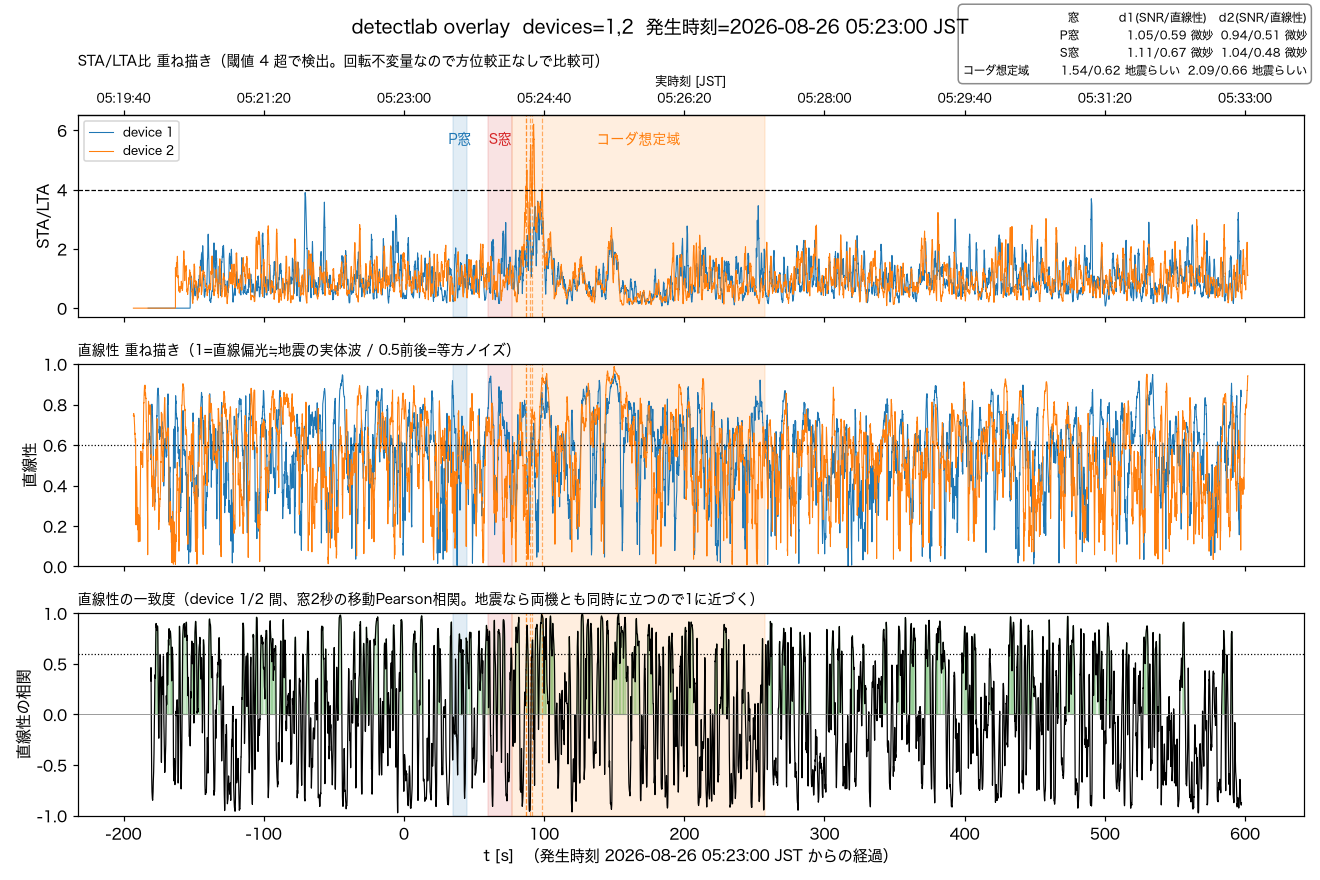
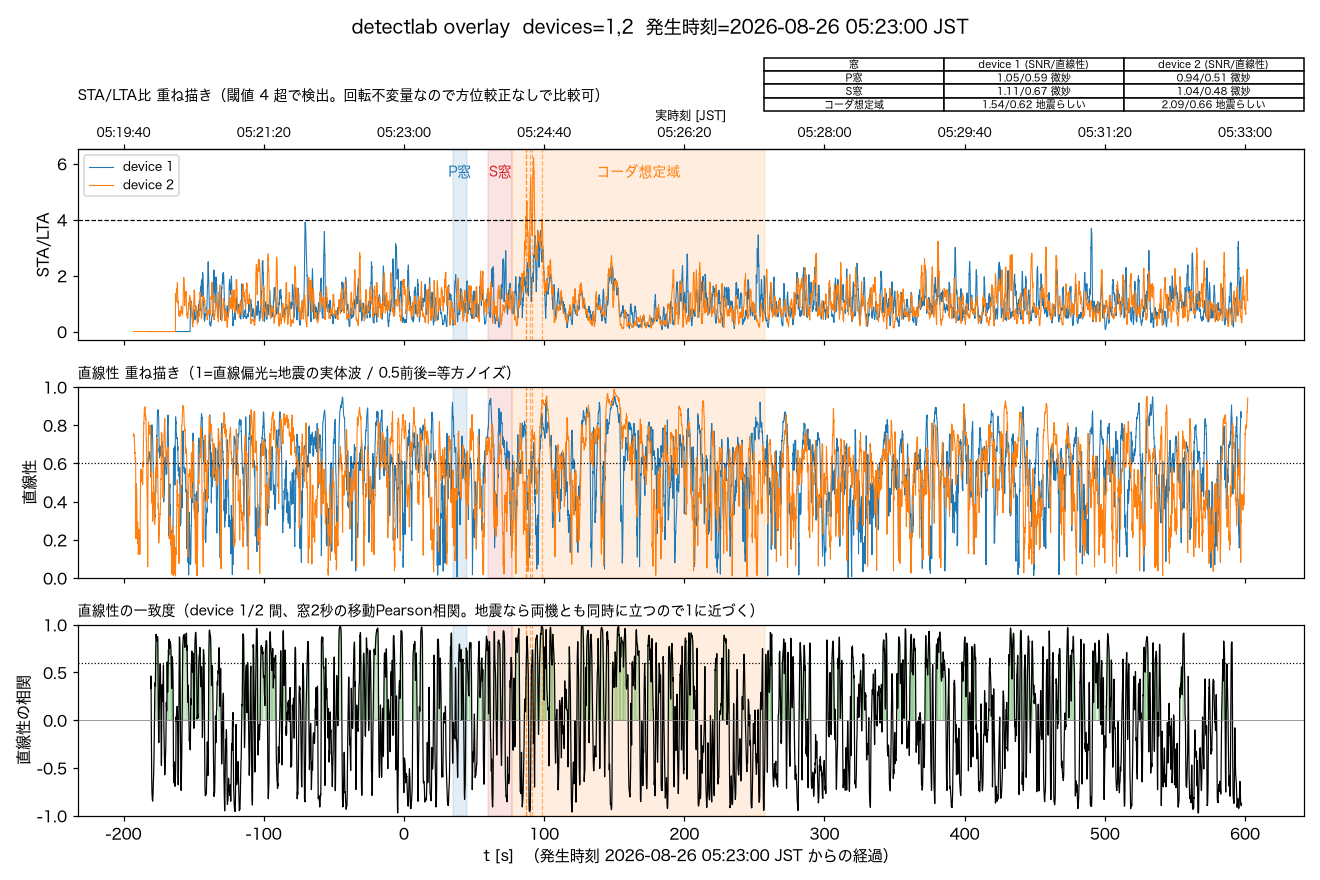
窓別レポート表の配置をレビュー指摘で2回直す
ax.table()化で列は揃ったが波形と重なる位置だった→axsの上端より上、タイトル横へ
移動→今度はsecondary_xaxis("top")の実時刻目盛と重なっていた→表をさらに上へ
(axes座標y=1.20)出して解決。セルの内側パディングも詰めてタイトル右側に収まる幅にした。

Claude-Session: https://claude.ai/code/session_01AXZKTXLxqzRLM2wsxbfUUm
Agent-Session: Claude Code on 29-er: 9aa0abc7-e992-46b4-8124-5504bc897dcd

diff --git a/tools/detectlab.py b/tools/detectlab.py
@@ -572,21 +572,30 @@ def plot_overlay(per_device, thr, arrivals, ref_us, out, show, corr_win=2.0, pre
                         color=color, ha="center", fontsize=9)
 
     if window_reports and arrivals:
+        # 和文フォントはプロポーショナルなので、文字列パディングでは列が揃わない。
+        # ax.table()の実グリッドに任せる（axes座標なのでsuptitleとも衝突しない）。
         dev_ids = [d for d, *_ in per_device]
-        header = "窓          " + "   ".join(f"d{d}(SNR/直線性)" for d in dev_ids)
-        rows = [header]
+        col_labels = ["窓"] + [f"device {d} (SNR/直線性)" for d in dev_ids]
+        cell_text = []
         for label, *_r in arrivals:
-            cells = [f"{label:12s}"]
+            row = [label]
             for d in dev_ids:
                 entry = next((w for w in window_reports.get(d) or [] if w[0] == label), None)
                 if entry and entry[1] is not None:
                     _, snr, wrect, verdict = entry
-                    cells.append(f"{snr:4.2f}/{wrect:4.2f} {verdict}")
+                    row.append(f"{snr:.2f}/{wrect:.2f} {verdict}")
                 else:
-                    cells.append("-")
-            rows.append("  ".join(cells))
-        fig.text(0.99, 0.99, "\n".join(rows), ha="right", va="top", fontsize=7.5,
-                 bbox=dict(boxstyle="round,pad=0.4", fc="white", ec="gray", alpha=0.9))
+                    row.append("-")
+            cell_text.append(row)
+        # axes上端(y=1)より上、waveformとは重ならない figure 上部の帯に置く。
+        # マージンを詰めて、タイトルの右側にちょうど収まる幅にする。
+        tbl = axs[0].table(cellText=cell_text, colLabels=col_labels, cellLoc="center",
+                           bbox=[0.56, 1.20, 0.44, 0.28], zorder=5)
+        tbl.auto_set_font_size(False)
+        tbl.set_fontsize(6.5)
+        for cell in tbl.get_celld().values():
+            cell.set_facecolor("white")
+            cell.PAD = 0.03
 
     devices_note = ",".join(str(d) for d, *_ in per_device)
     fig.suptitle(f"detectlab overlay  devices={devices_note}  "

diff --git a/docs/log/2026-08-28-window-report-table-on-plot.md b/docs/log/2026-08-28-window-report-table-on-plot.md
@@ -21,14 +21,33 @@
   （dev→結果）に集約する。`per_device`タプルの形（6要素）は変えていない——
   `pair_rolling_correlation()`が固定形で分解しているため、別引数として通す方が安全。
 - `plot_overlay()`に`window_reports`引数を追加。2機重ね描き時、右上に窓×機体の
-  SNR/直線性/判定の表を貼る。**凡例(device 1/2)は表と衝突するため左上へ移動**
-  （`--eew`なし・表を出さない時は従来通り右上のまま）。
+  SNR/直線性/判定の表を`axs[0].table()`（実グリッド）で貼る。**凡例(device 1/2)は
+  表と衝突するため左上へ移動**（`--eew`なし・表を出さない時は従来通り右上のまま）。
+
+### レイアウトの試行錯誤（ユーザーレビューで2回直した）
+
+1. 初版は文字列をパディングして手組みした表を`fig.text()`で図全体の座標(0.99, 0.99)に
+   置いたが、和文フォントはプロポーショナルなのでパディングでは列が揃わず、かつ
+   suptitleと同じ高さに置いたためタイトル文字列の末尾と衝突した。
+   → `axs[0].table()`の実グリッドに置き換え、`axs[0]`の内側（axes座標 y=0.60〜0.98）に
+   移動して解決したが、STA/LTAの波形と重なる位置になった。
+2. ユーザー指摘で「波形と被らない・タイトル横の元の位置に戻したい」と分かり、
+   `axs[0]`の**上端(y=1.0)より上**（axes座標 y=1.20〜1.48）に配置し直した。
+   セルの内側パディング(`Cell.PAD`)も0.1→0.03に詰めてタイトルの右側に収まる幅にした。
+3. それでもまだ問題が残っていた——`secondary_xaxis("top")`で出している実時刻の目盛
+   （22:41:40等）がちょうどその高さ(axes座標 y≈1.0〜1.15程度)にあり、表の右側の下に
+   隠れてしまっていた。表の`y0`を1.02→1.20へさらに上げ、目盛の帯より上に出すことで解決。
+
+最終的な配置は「STA/LTAパネルの真上・実時刻目盛のさらに上・タイトルの右側」という
+狭い帯（`bbox=[0.56, 1.20, 0.44, 0.28]`、axes座標）。
 
 ## 動作確認
 
-福島県沖M4.5・浦河沖M6.0の2件を`--out`付きで再実行し、表と凡例が衝突せず両方読める
-ことを確認。`--eew`なしのケースも表が出ず凡例が右上のままであることを確認（既存挙動の
-回帰なし）。テスト1件追加（`classify_snr_wrect`の閾値）、`pytest tools/tests`は82件通過。
+福島県沖M4.5・浦河沖M6.0の2件を`--out`付きで再実行し、表・凡例・実時刻目盛・波形の
+どれとも衝突せず全部読めることを確認（レイアウトはユーザーに画像で都度確認してもらい、
+上記3段階の手直しを経て確定）。`--eew`なしのケースも表が出ず凡例が右上のままであることを
+確認（既存挙動の回帰なし）。テスト1件追加（`classify_snr_wrect`の閾値）、
+`pytest tools/tests`は82件通過。
 
 ## 図
 
